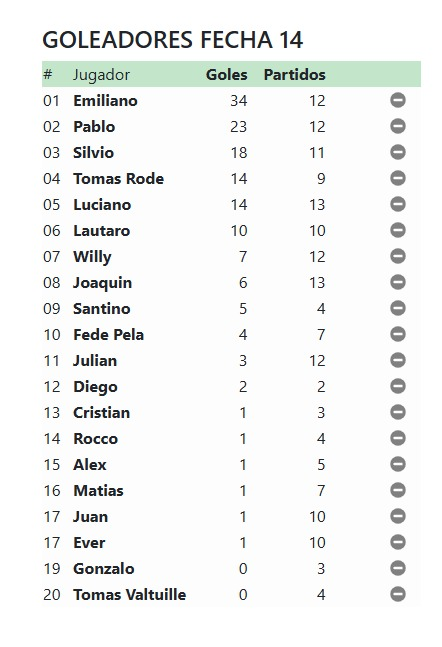
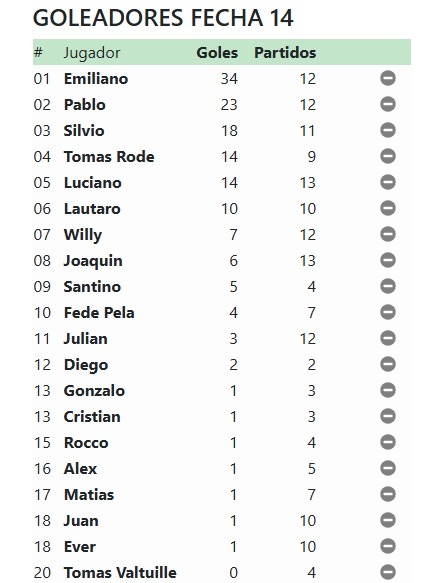
Actualizacion Fecha 14

diff --git a/Futbol-Jueves-2025/Goleadores/Fecha 14.htm b/Futbol-Jueves-2025/Goleadores/Fecha 14.htm
@@ -123,6 +123,13 @@
 		<td class="flotante">2</td>
 		<td class="flotante"> <i class="fas fa-minus-circle" style='color:grey'></i></td>
 	</tr>
+	<tr class="table-light">
+		<td>13</td>	  
+		<th scope="row">Gonzalo</th>
+		<td class="flotante">1</td>
+		<td class="flotante">3</td>
+		<td class="flotante"> <i class="fas fa-minus-circle" style='color:grey'></i></td>
+	</tr>
     <tr class="table-light">
 		<td>13</td>	  
 		<th scope="row">Cristian</th>
@@ -131,46 +138,38 @@
 		<td class="flotante"> <i class="fas fa-minus-circle" style='color:grey'></i></td>
 	</tr>
 	<tr class="table-light">
-		<td>14</td>	  
+		<td>15</td>	  
 		<th scope="row">Rocco</th>
 		<td class="flotante"> 1 </td>
 		<td class="flotante">4</td>
 		<td class="flotante"> <i class="fas fa-minus-circle" style='color:grey'></i></td>
 	</tr>
 	<tr class="table-light">
-		<td>15</td>	  
+		<td>16</td>	  
 		<th scope="row">Alex</th>
 		<td class="flotante">1</td>
 		<td class="flotante">5</td>
 	<td class="flotante"> <i class="fas fa-minus-circle" style='color:grey'></i></td>
 	</tr>
 	<tr class="table-light">
-		<td>16</td>	  
+		<td>17</td>	  
 		<th scope="row">Matias</th>
 		<td class="flotante">1</td>
 		<td class="flotante">7</td>
 		<td class="flotante"> <i class="fas fa-minus-circle" style='color:grey'></i></td>
 	</tr>
 	<tr class="table-light">
-		<td>17</td>	  
+		<td>18</td>	  
 		<th scope="row">Juan</th>
 		<td class="flotante"> 1 </td>
 		<td class="flotante">10</td>
 		<td class="flotante"> <i class="fas fa-minus-circle" style='color:grey'></i></td>
 	</tr>
-    
 	<tr class="table-light">
-		<td>17</td>	  
+		<td>18</td>	  
 		<th scope="row">Ever</th>
 		<td class="flotante">1</td>
 		<td class="flotante">10</td>
-		<td class="flotante"> <i class="fas fa-minus-circle" style='color:grey'></i></td>
-	</tr>
-    <tr class="table-light">
-		<td>19</td>	  
-		<th scope="row">Gonzalo</th>
-		<td class="flotante"> 0 </td>
-		<td class="flotante">3</td>
 		<td class="flotante"> <i class="fas fa-minus-circle" style='color:grey'></i></td>
 	</tr>
 	<tr class="table-light">
